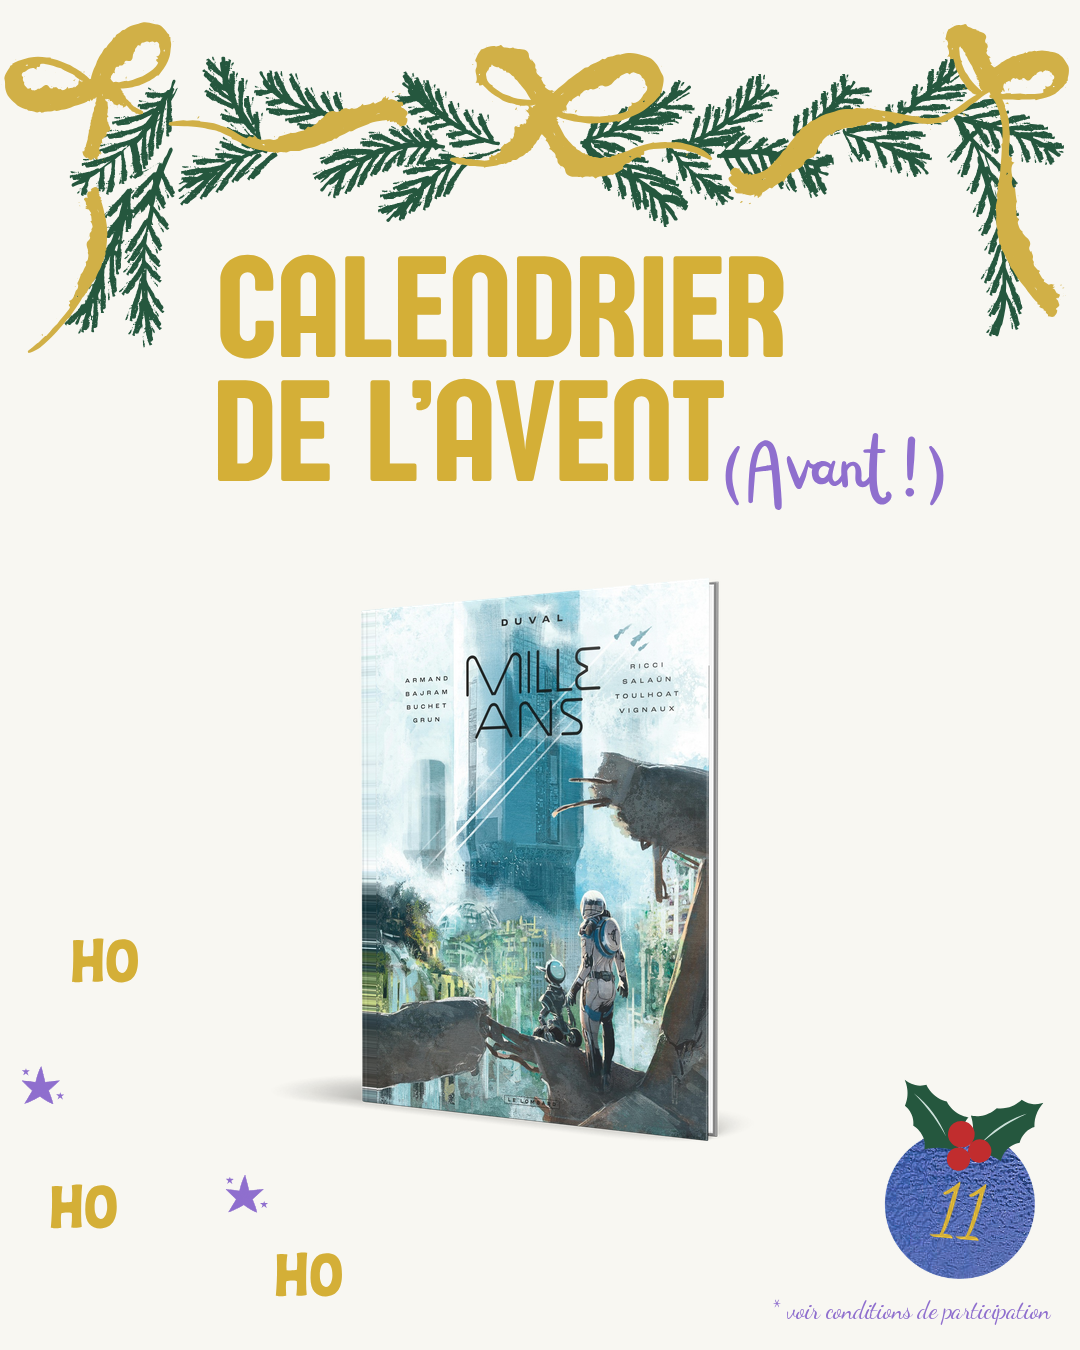
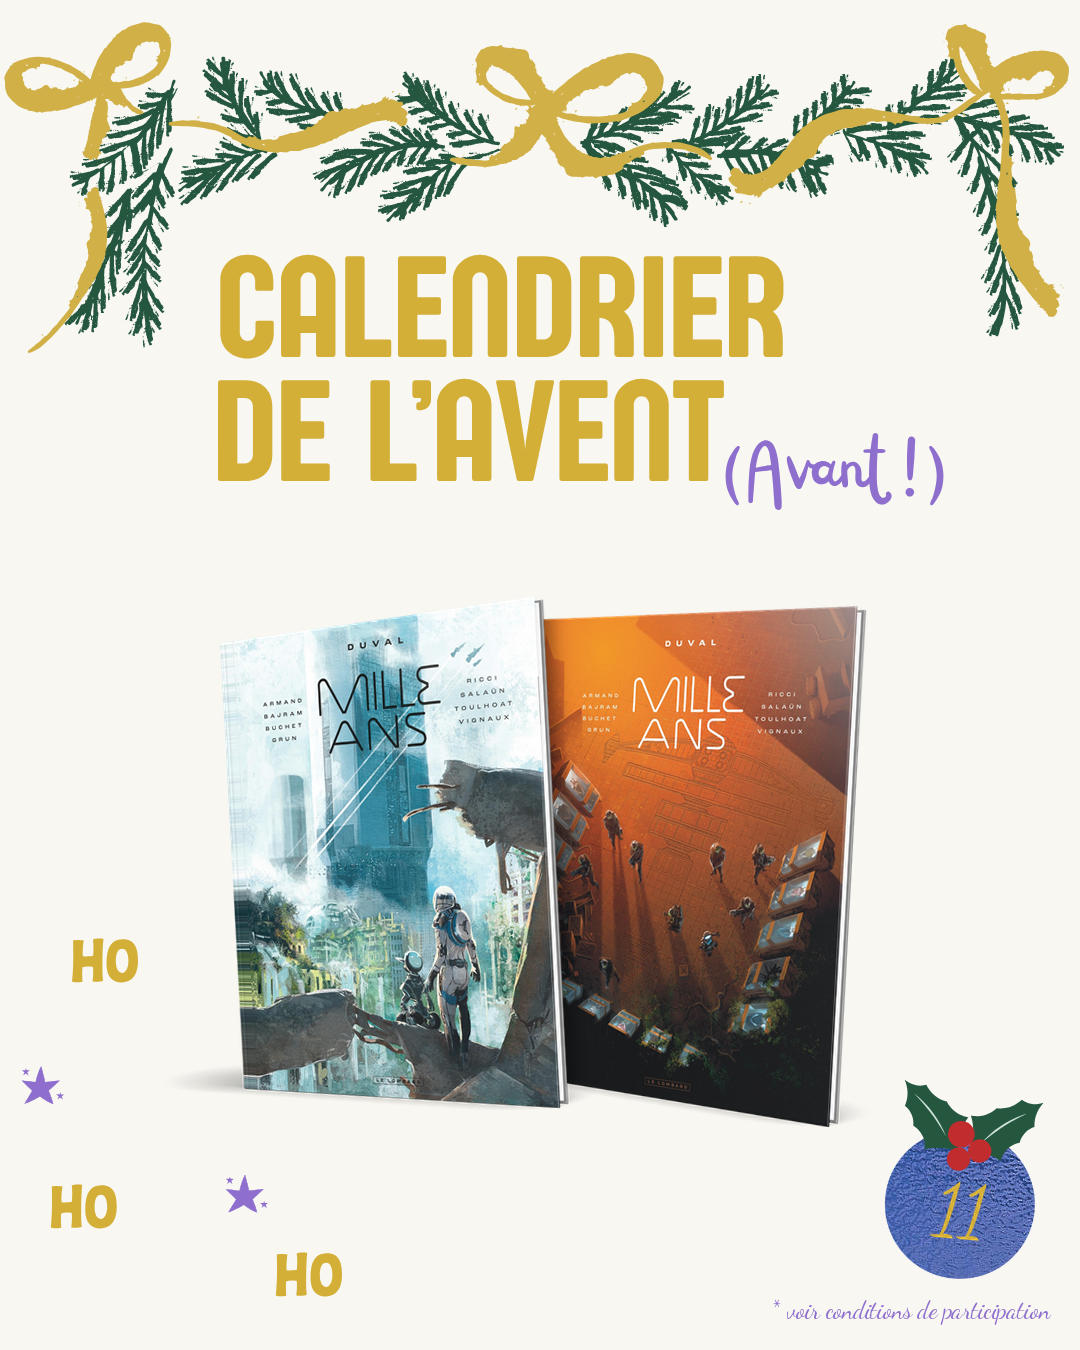
Calendrier Avant : jour 11 = Mille Ans + édition spéciale
Claude-Session: https://claude.ai/code/session_01QaZk7QZvzTVY1x8op41wve

Changed region(s): [[0.1833, 0.4356, 0.825, 0.84]]

diff --git a/calendrier-avent-2026/planning.py b/calendrier-avent-2026/planning.py
@@ -20,7 +20,7 @@ PLANNING = [
     ['9782808218726'],                    # 8  La bibliothèque du père Noël 1 – Julbocken
     ['9782808212809', '9782808219358'],   # 9  Gallmeister : Betty + Le Gang de la clef à molette
     ['9782808217460'],                    # 10 Le soleil va se lever
-    ['9782808217828'],                    # 11 Mille Ans
+    ['9782808217828', '9782808220804'],   # 11 Mille Ans + édition spéciale (normale devant)
     ['9782808211604'],                    # 12 Le Lien
     ['9782808219211'],                    # 13 Le Territoire
     ['9782808201292'],                    # 14 Resurrection Hill
